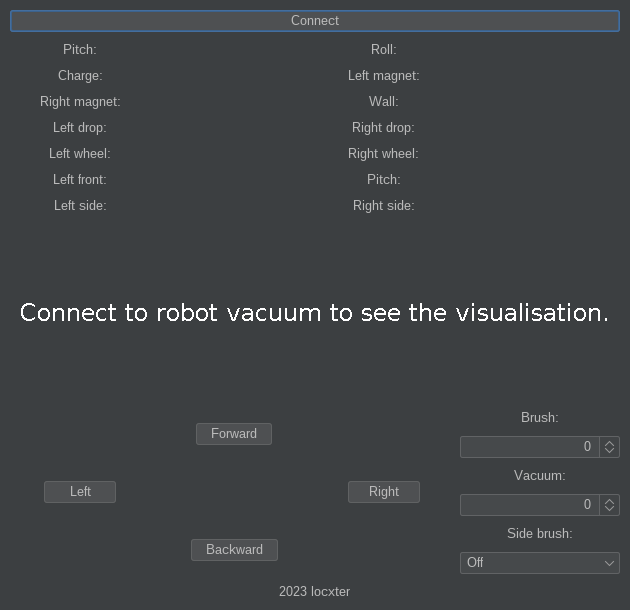
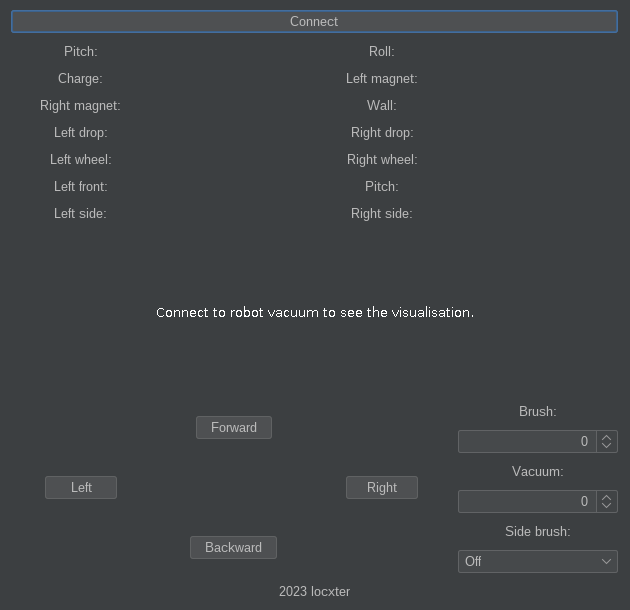
Adapted the visualisation's font size to match the application default.

diff --git a/src/main/kotlin/com/github/locxter/btvccntrl/ng/gui/Visualisation.kt b/src/main/kotlin/com/github/locxter/btvccntrl/ng/gui/Visualisation.kt
@@ -99,7 +99,7 @@ class Visualisation() : JComponent() {
         context2d.fillRect(0, 0, width, height)
         if (showStartScreen) {
             // Draw a start screen if no visualisation has been requested yet
-            val font = Font(Font.SANS_SERIF, Font.PLAIN, 24)
+            val font = Font(Font.SANS_SERIF, Font.PLAIN, this.font.size)
             val metrics = context2d.getFontMetrics(font)
             val message = "Connect to robot vacuum to see the visualisation."
             context2d.font = font
